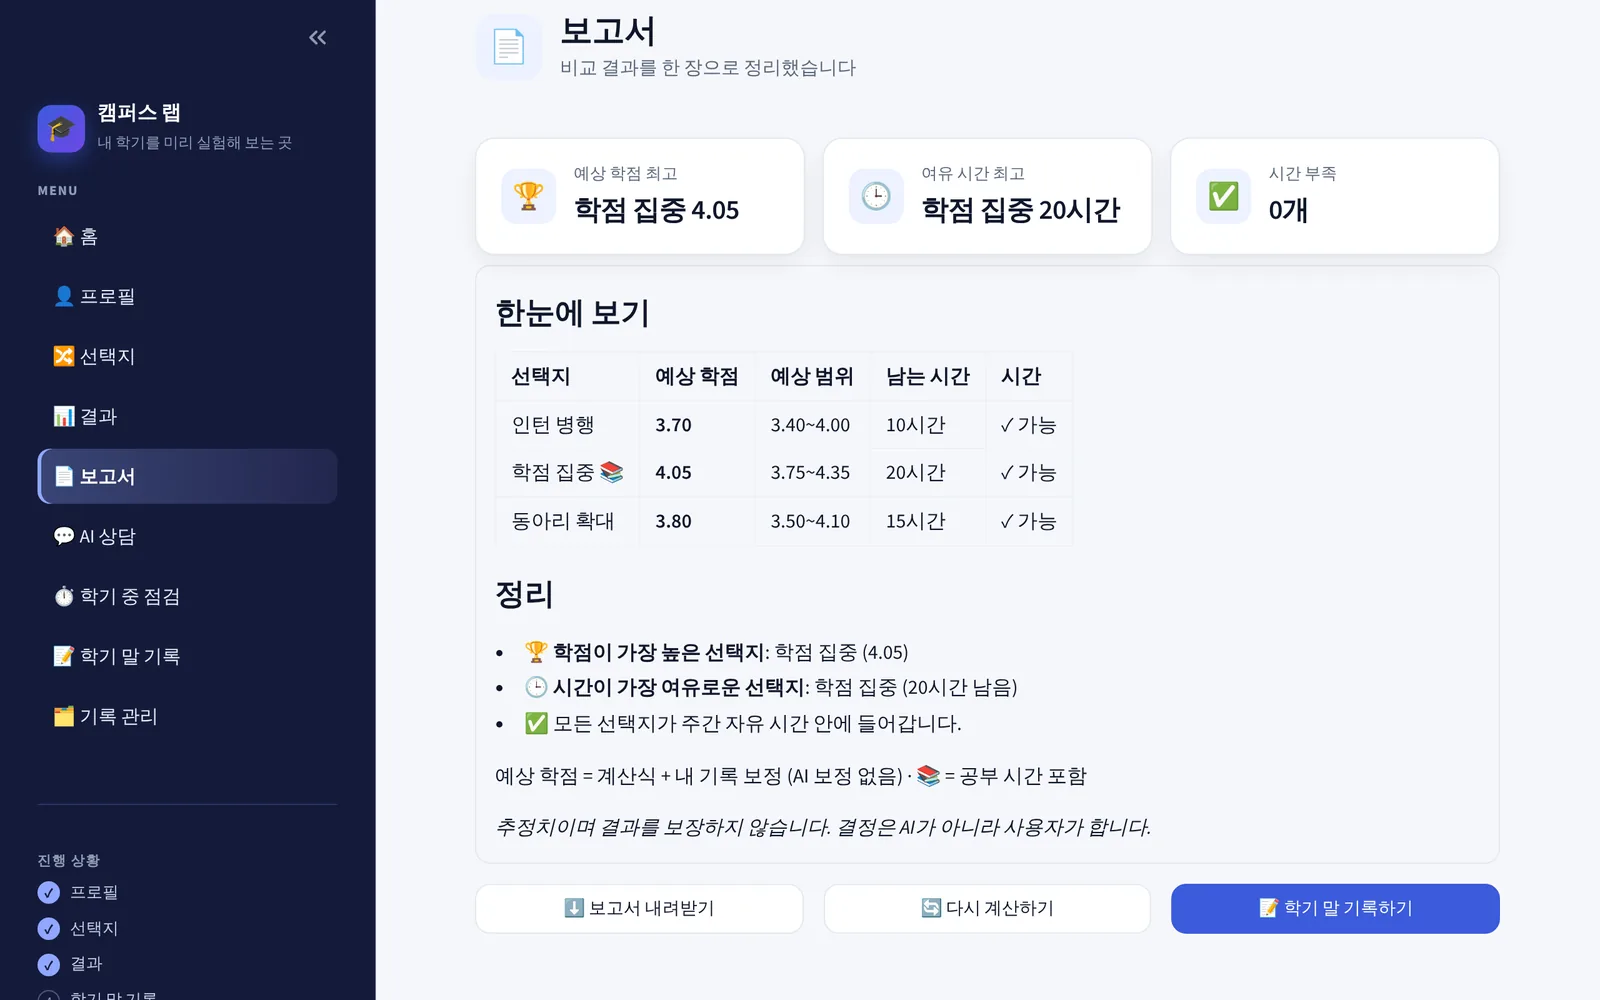
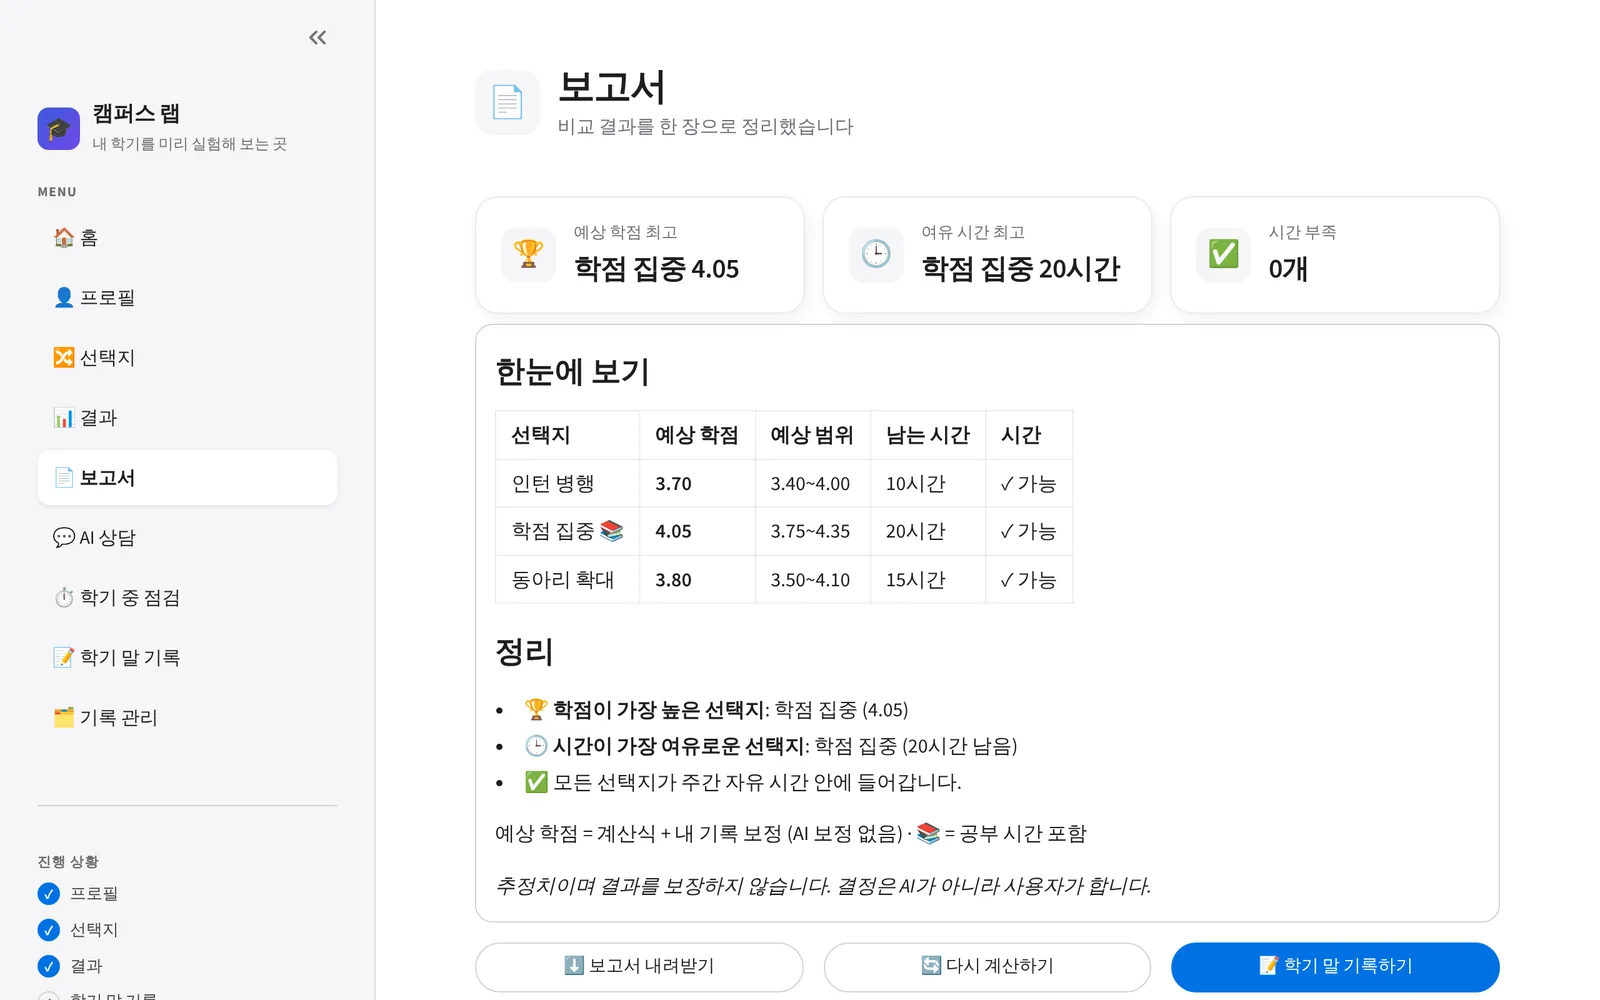
웹 버전 위쪽 막대가 앱에 가려지던 문제 수정, 소개 페이지 앱 사진 교체
- 앱의 화면 고정 요소(사이드바 · 머리줄)가 위쪽 막대를 덮어 '내 기록 CSV 내려받기'가 보이지 않던 문제
- 소개 페이지 첫 화면 사진을 새 디자인 앱 화면으로 다시 찍음

Claude-Session: https://claude.ai/code/session_01X2MccBk6SCehxZcZ8gD14D

diff --git a/campus-sim/app.html b/campus-sim/app.html
@@ -27,7 +27,8 @@
     .bar button:hover { text-decoration: underline; }
     .bar :focus-visible { outline: 2px solid #0071e3; outline-offset: 3px; border-radius: 6px; }
     @media (max-width: 640px) { .bar .note { display: none; } .bar button { margin-left: auto; } }
-    #root { height: calc(100% - 49px); }
+    /* 앱의 사이드바 · 머리줄(화면 고정 요소)이 위쪽 막대를 덮지 않도록 이 영역 안에서만 배치되게 합니다 */
+    #root { position: relative; height: calc(100% - 49px); overflow: hidden; transform: translateZ(0); }
   </style>
 </head>
 <body>
